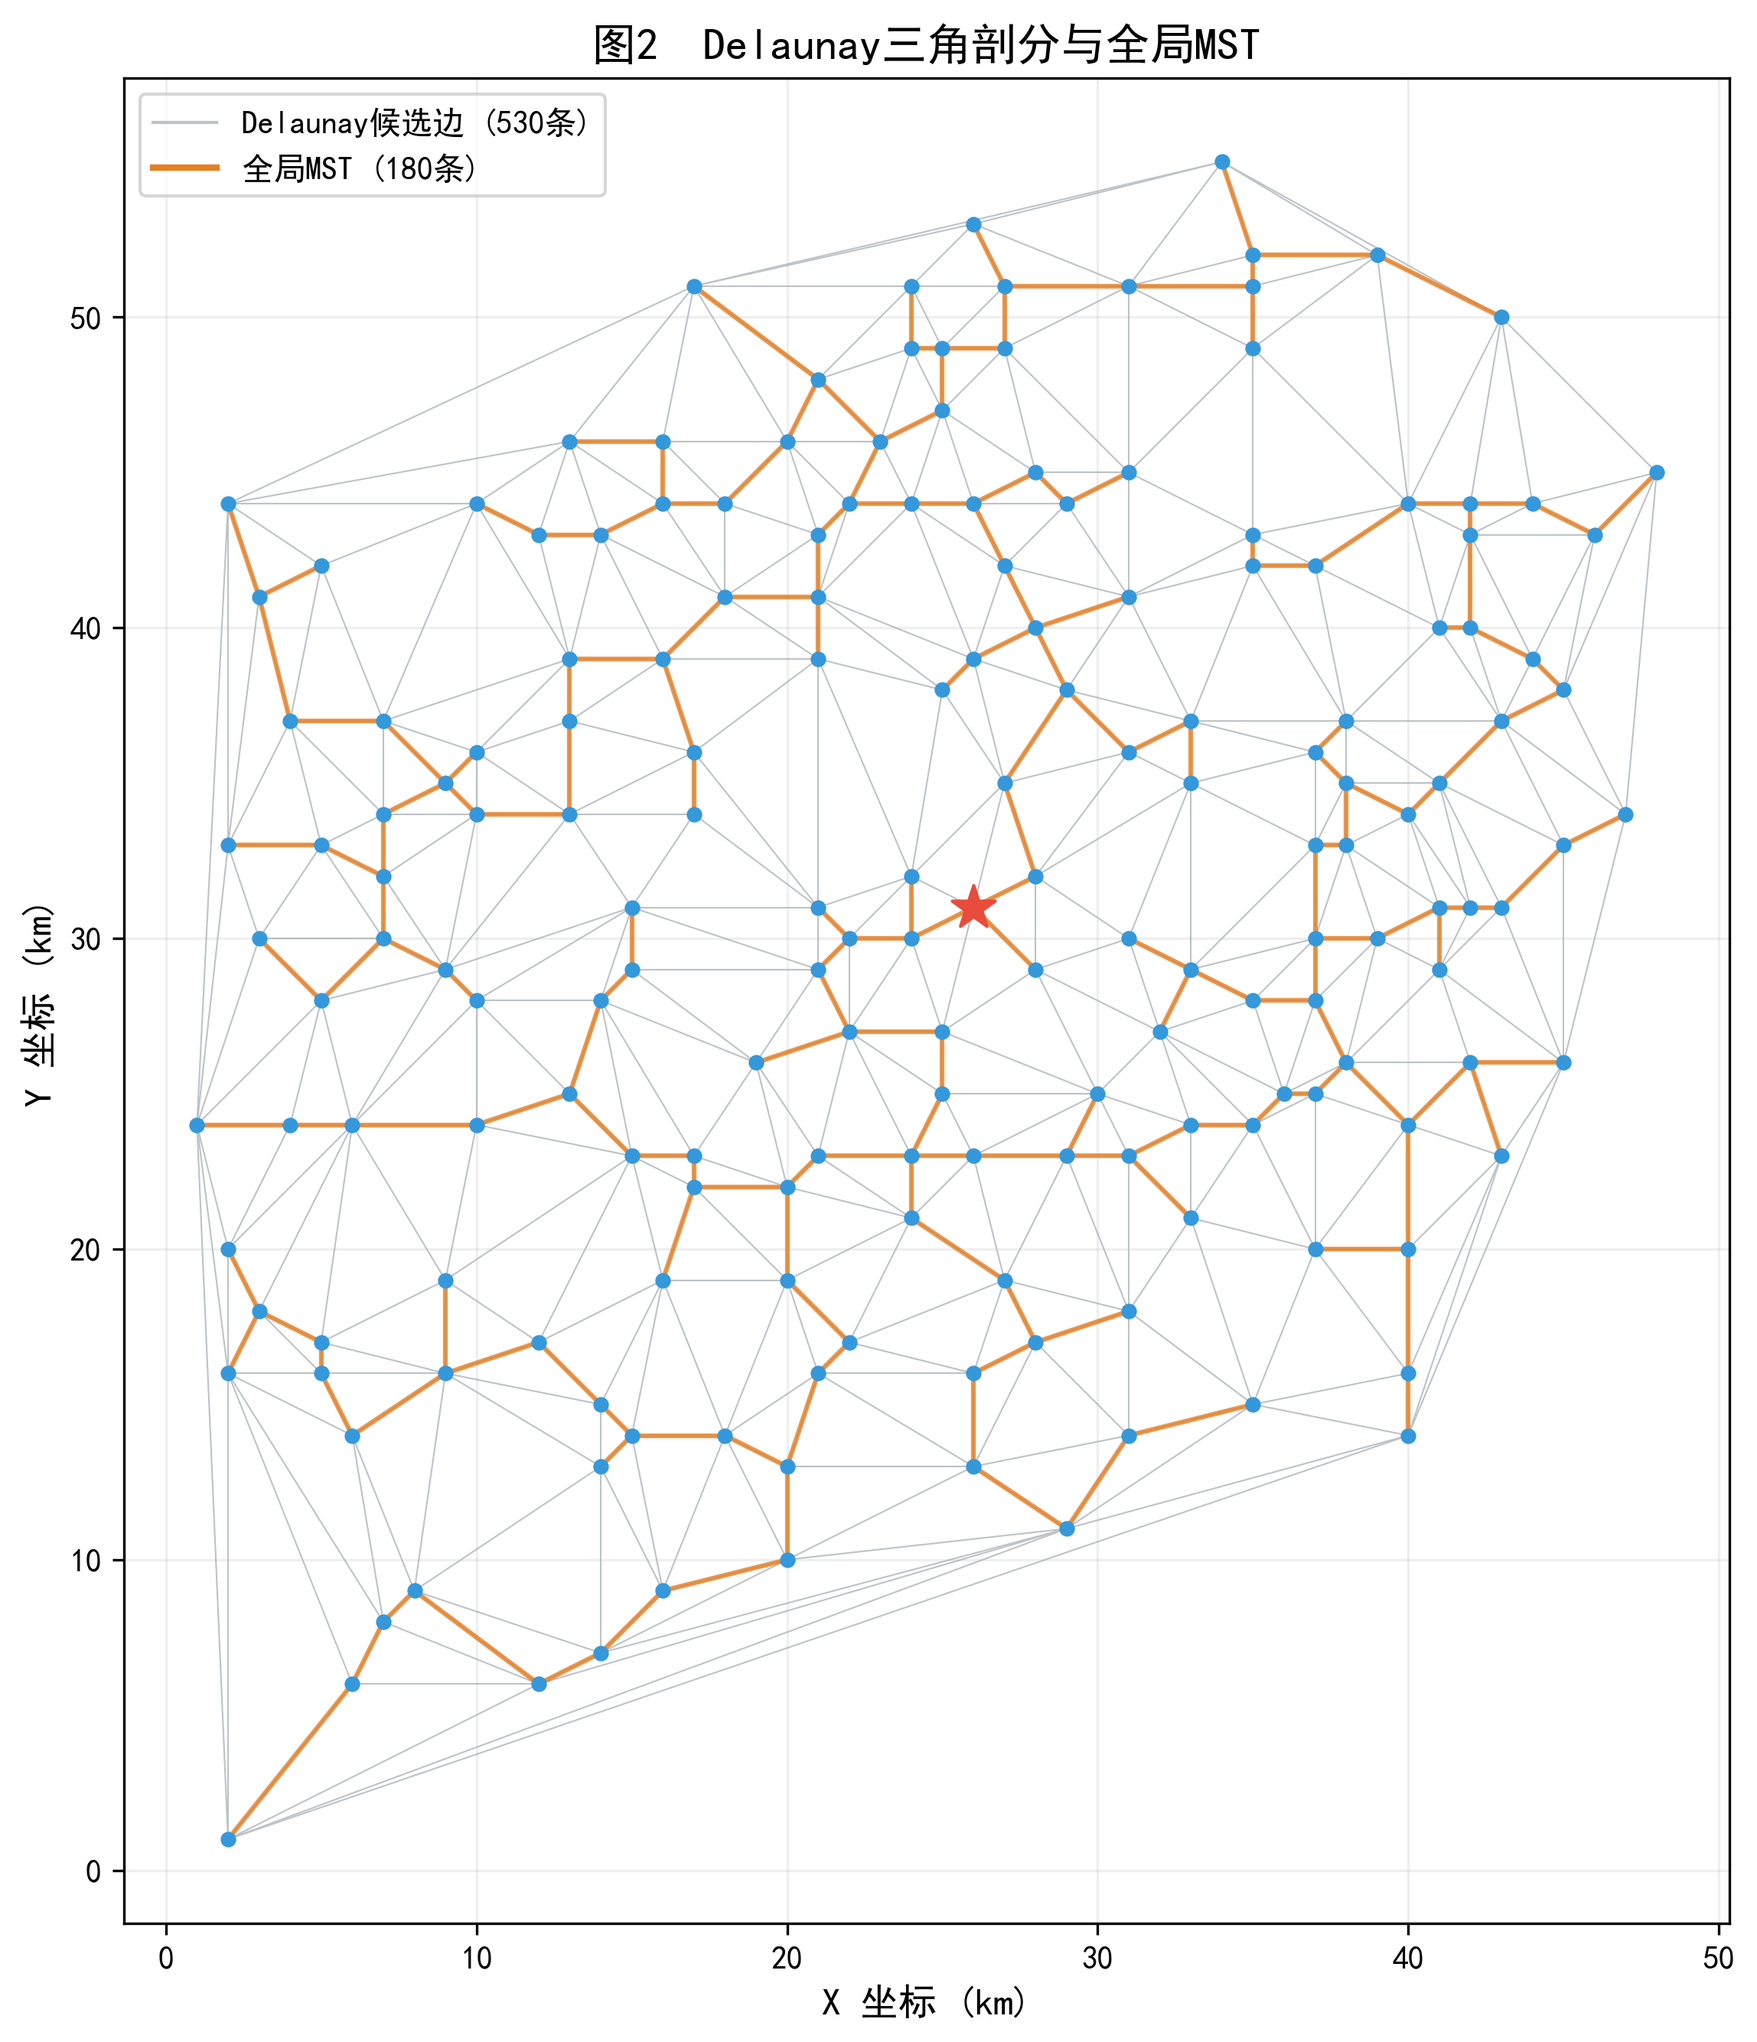
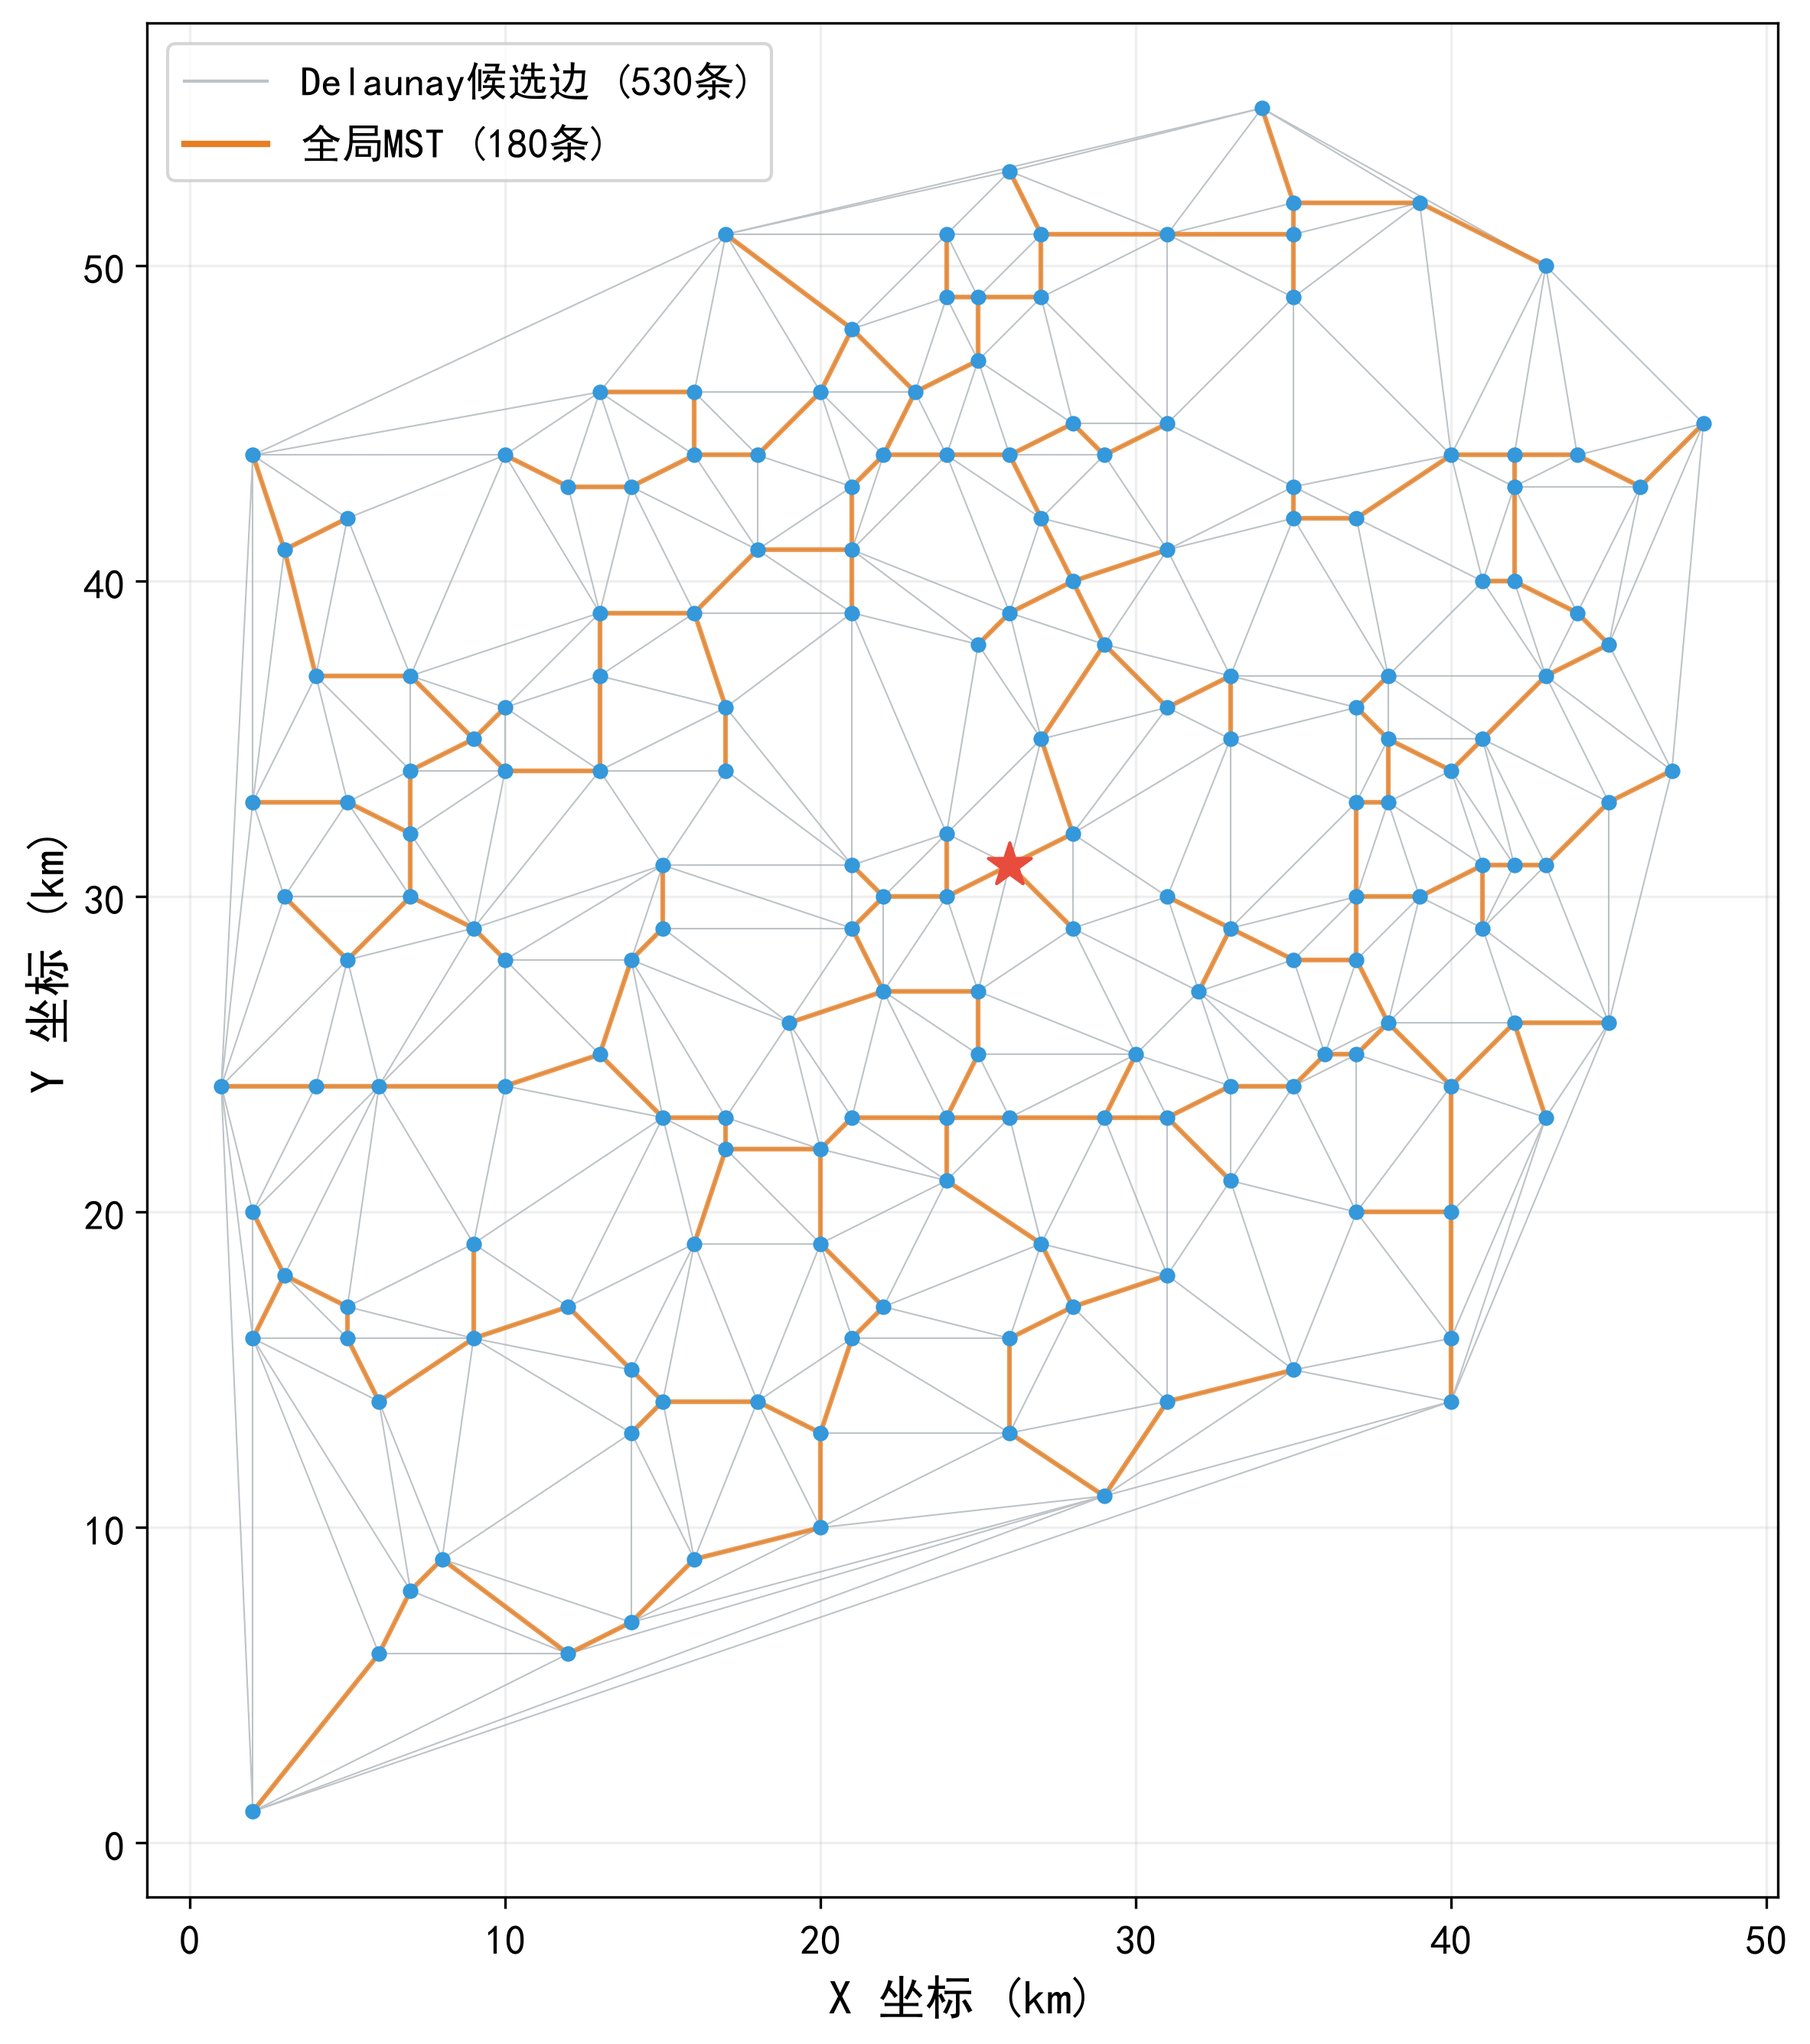
修改了gitignore 删去了图片内标题并放大字号

diff --git a/模块二练习/code/visualization.py b/模块二练习/code/visualization.py
@@ -3,6 +3,7 @@
 可视化模块：生成论文所需8张图
 """
 
+import os
 import numpy as np
 import matplotlib.pyplot as plt
 import matplotlib.cm as cm
@@ -12,8 +13,12 @@ from utils import compute_mst
 
 plt.rcParams['font.sans-serif'] = ['SimHei', 'Microsoft YaHei']
 plt.rcParams['axes.unicode_minus'] = False
+plt.rcParams['axes.labelsize'] = 15
+plt.rcParams['xtick.labelsize'] = 13
+plt.rcParams['ytick.labelsize'] = 13
+plt.rcParams['legend.fontsize'] = 13
 
-FIGURES_DIR = r'E:\MathModeling\模块二练习\figures'
+FIGURES_DIR = os.path.join(os.path.dirname(os.path.dirname(os.path.abspath(__file__))), 'figures')
 
 
 def plot_fig1(coords):
@@ -22,12 +27,11 @@ def plot_fig1(coords):
     ax.scatter(coords[1:, 0], coords[1:, 1], c='#3498DB', s=30, zorder=3, label='供水点 (P1-P180)')
     ax.scatter(coords[0, 0], coords[0, 1], c='#E74C3C', s=300, marker='*', zorder=5, label='中心供水站 A')
     ax.annotate('A (26, 31)', xy=(26, 31), xytext=(28, 28),
-                fontsize=11, fontweight='bold', color='#E74C3C',
+                fontsize=14, fontweight='bold', color='#E74C3C',
                 arrowprops=dict(arrowstyle='->', color='#E74C3C'))
-    ax.set_xlabel('X 坐标 (km)', fontsize=12)
-    ax.set_ylabel('Y 坐标 (km)', fontsize=12)
-    ax.set_title('图1  供水点空间分布', fontsize=14)
-    ax.legend(fontsize=11, loc='upper left')
+    ax.set_xlabel('X 坐标 (km)')
+    ax.set_ylabel('Y 坐标 (km)')
+    ax.legend(loc='upper left')
     ax.set_aspect('equal')
     ax.grid(True, alpha=0.3)
     plt.tight_layout()
@@ -66,10 +70,9 @@ def plot_fig2(coords, dist_matrix):
         Line2D([0], [0], color='#BDC3C7', linewidth=1, label=f'Delaunay候选边 ({len(edges_plotted)}条)'),
         Line2D([0], [0], color='#E67E22', linewidth=2, label=f'全局MST ({len(mst_edges)}条)'),
     ]
-    ax.legend(handles=legend_elements, fontsize=10, loc='upper left')
-    ax.set_title('图2  Delaunay三角剖分与全局MST', fontsize=14)
-    ax.set_xlabel('X 坐标 (km)', fontsize=12)
-    ax.set_ylabel('Y 坐标 (km)', fontsize=12)
+    ax.legend(handles=legend_elements, loc='upper left')
+    ax.set_xlabel('X 坐标 (km)')
+    ax.set_ylabel('Y 坐标 (km)')
     ax.set_aspect('equal')
     ax.grid(True, alpha=0.2)
     plt.tight_layout()
@@ -83,7 +86,7 @@ def plot_fig3(coords, clusters, primary_stations, cluster_mst_lengths, cluster_m
     """图3：约束聚类结果图"""
     fig, ax = plt.subplots(figsize=(11, 10))
     K = len(clusters)
-    cmap = cm.get_cmap('tab20', K)
+    cmap = plt.get_cmap('tab20', K)
 
     for k in range(K):
         cluster = clusters[k]
@@ -112,20 +115,19 @@ def plot_fig3(coords, clusters, primary_stations, cluster_mst_lengths, cluster_m
 
         centroid = coords[nodes].mean(axis=0)
         ax.annotate(f'C{k+1}\n({cluster_mst_lengths[k]:.1f}km)',
-                    xy=centroid, fontsize=8, ha='center', color=color, fontweight='bold')
+                     xy=centroid, fontsize=11, ha='center', color=color, fontweight='bold')
 
     ax.scatter(coords[0, 0], coords[0, 1], c='#E74C3C', s=300, marker='*', zorder=6)
-    ax.annotate('A', xy=(26, 31), xytext=(27, 29), fontsize=12, fontweight='bold', color='#E74C3C')
+    ax.annotate('A', xy=(26, 31), xytext=(27, 29), fontsize=15, fontweight='bold', color='#E74C3C')
 
     legend_elements = [
         Line2D([0], [0], marker='s', color='w', markerfacecolor='black', markersize=10, label='一级供水站'),
         Line2D([0], [0], marker='*', color='w', markerfacecolor='#E74C3C', markersize=15, label='中心站 A'),
         Line2D([0], [0], linestyle='--', color='gray', linewidth=1.2, label='簇边界(凸包)'),
     ]
-    ax.legend(handles=legend_elements, fontsize=10, loc='upper left')
-    ax.set_title('图3  约束凝聚聚类结果（各簇MST长度标注）', fontsize=14)
-    ax.set_xlabel('X 坐标 (km)', fontsize=12)
-    ax.set_ylabel('Y 坐标 (km)', fontsize=12)
+    ax.legend(handles=legend_elements, loc='upper left')
+    ax.set_xlabel('X 坐标 (km)')
+    ax.set_ylabel('Y 坐标 (km)')
     ax.set_aspect('equal')
     ax.grid(True, alpha=0.2)
     plt.tight_layout()
@@ -146,7 +148,7 @@ def plot_fig4(coords, E_I, primary_stations, L_I, dist_matrix):
                 c='#E74C3C', linewidth=2.5, zorder=3, solid_capstyle='round')
         mid = (coords[u] + coords[v]) / 2
         length = dist_matrix[u][v]
-        ax.annotate(f'{length:.1f}', xy=mid, fontsize=7, color='#C0392B',
+        ax.annotate(f'{length:.1f}', xy=mid, fontsize=10, color='#C0392B',
                     ha='center', va='bottom',
                     bbox=dict(boxstyle='round,pad=0.1', fc='white', alpha=0.7, ec='none'))
 
@@ -154,14 +156,13 @@ def plot_fig4(coords, E_I, primary_stations, L_I, dist_matrix):
         ax.scatter(coords[ps, 0], coords[ps, 1], c='#2C3E50', s=150, marker='s', zorder=5,
                    edgecolors='white', linewidths=1.5)
         ax.annotate(f'P{ps}', xy=(coords[ps, 0], coords[ps, 1]),
-                    xytext=(5, 5), textcoords='offset points', fontsize=8, fontweight='bold')
+                     xytext=(5, 5), textcoords='offset points', fontsize=11, fontweight='bold')
 
     ax.scatter(coords[0, 0], coords[0, 1], c='#E74C3C', s=350, marker='*', zorder=6)
-    ax.annotate('A', xy=(26, 31), xytext=(27, 29), fontsize=13, fontweight='bold', color='#E74C3C')
+    ax.annotate('A', xy=(26, 31), xytext=(27, 29), fontsize=16, fontweight='bold', color='#E74C3C')
 
-    ax.set_title(f'图4  I型管网（一级站MST，总长 {L_I:.2f} km）', fontsize=14)
-    ax.set_xlabel('X 坐标 (km)', fontsize=12)
-    ax.set_ylabel('Y 坐标 (km)', fontsize=12)
+    ax.set_xlabel('X 坐标 (km)')
+    ax.set_ylabel('Y 坐标 (km)')
     ax.set_aspect('equal')
     ax.grid(True, alpha=0.2)
     plt.tight_layout()
@@ -198,7 +199,7 @@ def plot_fig5(coords, E_I, E_II, primary_stations, L_I, L_II, C_total):
 
     # 中心站A
     ax.scatter(coords[0, 0], coords[0, 1], c='#E74C3C', s=350, marker='*', zorder=6)
-    ax.annotate('A', xy=(26, 31), xytext=(27, 29), fontsize=13, fontweight='bold', color='#E74C3C')
+    ax.annotate('A', xy=(26, 31), xytext=(27, 29), fontsize=16, fontweight='bold', color='#E74C3C')
 
     legend_elements = [
         Line2D([0], [0], color='#E74C3C', linewidth=2.5, label=f'I型管道 ({L_I:.2f} km)'),
@@ -207,10 +208,9 @@ def plot_fig5(coords, E_I, E_II, primary_stations, L_I, L_II, C_total):
         Line2D([0], [0], marker='s', color='w', markerfacecolor='#2C3E50', markersize=10, label='一级供水站'),
         Line2D([0], [0], marker='o', color='w', markerfacecolor='#3498DB', markersize=7, label='二级供水站'),
     ]
-    ax.legend(handles=legend_elements, fontsize=10, loc='upper left')
-    ax.set_title(f'图5  最优输水管道网络（总费用 {C_total/10000:.2f} 万元）', fontsize=14)
-    ax.set_xlabel('X 坐标 (km)', fontsize=12)
-    ax.set_ylabel('Y 坐标 (km)', fontsize=12)
+    ax.legend(handles=legend_elements, loc='upper left')
+    ax.set_xlabel('X 坐标 (km)')
+    ax.set_ylabel('Y 坐标 (km)')
     ax.set_aspect('equal')
     ax.grid(True, alpha=0.2)
     plt.tight_layout()
@@ -232,14 +232,13 @@ def plot_fig6(cluster_mst_lengths):
 
     for bar, h in zip(bars, cluster_mst_lengths):
         ax.annotate(f'{h:.1f}', xy=(bar.get_x() + bar.get_width() / 2, h),
-                    xytext=(0, 3), textcoords='offset points', ha='center', fontsize=9)
+                     xytext=(0, 3), textcoords='offset points', ha='center', fontsize=12)
 
-    ax.set_xlabel('簇编号', fontsize=12)
-    ax.set_ylabel('II型管道MST总长 (km)', fontsize=12)
-    ax.set_title('图6  各簇II型管道长度与30km约束', fontsize=14)
+    ax.set_xlabel('簇编号')
+    ax.set_ylabel('II型管道MST总长 (km)')
     ax.set_xticks(x)
     ax.set_xticklabels([f'C{i}' for i in x])
-    ax.legend(fontsize=11)
+    ax.legend()
     ax.set_ylim(0, 35)
     ax.grid(axis='y', alpha=0.3)
     plt.tight_layout()
@@ -267,13 +266,12 @@ def plot_fig7(convergence_curve, initial_cost):
         ax.annotate(f'改善 {improvement:.1f}%',
                     xy=(iterations[-1], costs[-1]),
                     xytext=(iterations[-1] * 0.6, costs[-1] * 1.03),
-                    fontsize=11, color='#27AE60', fontweight='bold',
+                    fontsize=14, color='#27AE60', fontweight='bold',
                     arrowprops=dict(arrowstyle='->', color='#27AE60'))
 
-    ax.set_xlabel('迭代次数', fontsize=12)
-    ax.set_ylabel('总费用 (万元)', fontsize=12)
-    ax.set_title('图7  模拟退火收敛曲线', fontsize=14)
-    ax.legend(fontsize=11)
+    ax.set_xlabel('迭代次数')
+    ax.set_ylabel('总费用 (万元)')
+    ax.legend()
     ax.grid(True, alpha=0.3)
     plt.tight_layout()
     plt.savefig(f'{FIGURES_DIR}/图7_收敛曲线.png', dpi=300, bbox_inches='tight')
@@ -290,18 +288,17 @@ def plot_fig8(L_I, L_II, C_total):
     type_costs = [1291000 * L_I, 445000 * L_II]
     colors_type = ['#E74C3C', '#3498DB']
     ax1.pie(type_costs, labels=type_labels, colors=colors_type, autopct='%1.1f%%',
-            startangle=90, textprops={'fontsize': 11})
-    ax1.set_title('按管道类型', fontsize=13)
+            startangle=90, textprops={'fontsize': 14})
+    ax1.set_title('按管道类型', fontsize=16)
 
     detail_labels = ['I型材料费\n(571元/m)', 'I型铺设费\n(720元/m)',
                      'II型材料费\n(235元/m)', 'II型铺设费\n(210元/m)']
     detail_costs = [571000 * L_I, 720000 * L_I, 235000 * L_II, 210000 * L_II]
     colors_detail = ['#E74C3C', '#F1948A', '#3498DB', '#85C1E9']
     ax2.pie(detail_costs, labels=detail_labels, colors=colors_detail, autopct='%1.1f%%',
-            startangle=90, textprops={'fontsize': 10})
-    ax2.set_title('按费用性质', fontsize=13)
+            startangle=90, textprops={'fontsize': 13})
+    ax2.set_title('按费用性质', fontsize=16)
 
-    fig.suptitle(f'图8  总费用构成分析（总计 {C_total/10000:.2f} 万元）', fontsize=14, y=1.02)
     plt.tight_layout()
     plt.savefig(f'{FIGURES_DIR}/图8_成本构成.png', dpi=300, bbox_inches='tight')
     plt.savefig(f'{FIGURES_DIR}/图8_成本构成.pdf', bbox_inches='tight')

diff --git a/模块二练习/code/regenerate_figures.py b/模块二练习/code/regenerate_figures.py
@@ -1,0 +1,70 @@
+# -*- coding: utf-8 -*-
+"""根据已保存的最终结果快速重绘论文图片，不重复执行模拟退火。"""
+
+import csv
+import os
+
+from data_loader import preprocess
+from visualization import generate_all_figures
+
+
+BASE_DIR = os.path.dirname(os.path.dirname(os.path.abspath(__file__)))
+RESULTS_DIR = os.path.join(BASE_DIR, "results")
+
+
+def read_csv(name):
+    path = os.path.join(RESULTS_DIR, name)
+    with open(path, newline="", encoding="utf-8-sig") as file:
+        return list(csv.DictReader(file))
+
+
+def main():
+    coords, dist_matrix, _ = preprocess()
+
+    cluster_rows = read_csv("各簇详情.csv")
+    clusters = [set(map(int, row["簇内节点列表"].split(";"))) for row in cluster_rows]
+    primary_stations = [int(row["一级站编号"]) for row in cluster_rows]
+    cluster_mst_lengths = [float(row["II型管道长度_km"]) for row in cluster_rows]
+
+    primary_rows = read_csv("I型管道边.csv")
+    E_I = [(int(row["起点"]), int(row["终点"])) for row in primary_rows]
+
+    E_II = [[] for _ in clusters]
+    for row in read_csv("II型管道边.csv"):
+        E_II[int(row["簇编号"]) - 1].append((int(row["起点"]), int(row["终点"])))
+
+    convergence_rows = read_csv("收敛曲线.csv")
+    convergence_curve = [
+        (int(row["迭代次数"]), float(row["总费用_元"]))
+        for row in convergence_rows
+    ]
+
+    summary_rows = read_csv("结果总览.csv")
+    summary = {}
+    for row in summary_rows:
+        summary.setdefault(row["指标"], []).append(float(row["数值"]) if row["指标"] != "一级站编号" else row["数值"])
+
+    L_I = summary["I型管道总长"][0]
+    L_II = summary["II型管道总长"][0]
+    C_total = next(float(row["数值"]) for row in summary_rows if row["指标"] == "总费用" and row["单位"] == "元")
+    initial_cost = summary["初始解费用"][0]
+
+    generate_all_figures(
+        coords=coords,
+        dist_matrix=dist_matrix,
+        clusters=clusters,
+        primary_stations=primary_stations,
+        cluster_mst_lengths=cluster_mst_lengths,
+        cluster_mst_edges=E_II,
+        E_I=E_I,
+        E_II=E_II,
+        L_I=L_I,
+        L_II=L_II,
+        C_total=C_total,
+        convergence_curve=convergence_curve,
+        initial_cost=initial_cost,
+    )
+
+
+if __name__ == "__main__":
+    main()
